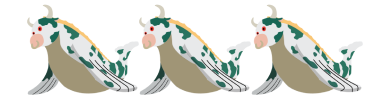
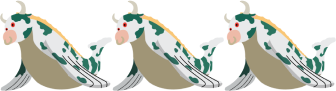
add assets and new file

diff --git a/Assets/js/modules/ennemy-skin/banana-skin.js b/Assets/js/modules/ennemy-skin/banana-skin.js
@@ -5,7 +5,7 @@ export class BananaSkin {
   sourceY = 0
 
   fps = 1000 / 12
-  framesLength = 16
+  framesLength = 3
 
   /**
    * @param {Game} game
@@ -20,8 +20,8 @@ export class BananaSkin {
     this.canvasWidth = canvas.width
     this.canvasHeight = canvas.height
 
-    this.frameWidth = 49
-    this.frameHeight = 54
+    this.frameWidth = 112
+    this.frameHeight = 101
 
     this.reset()
   }
